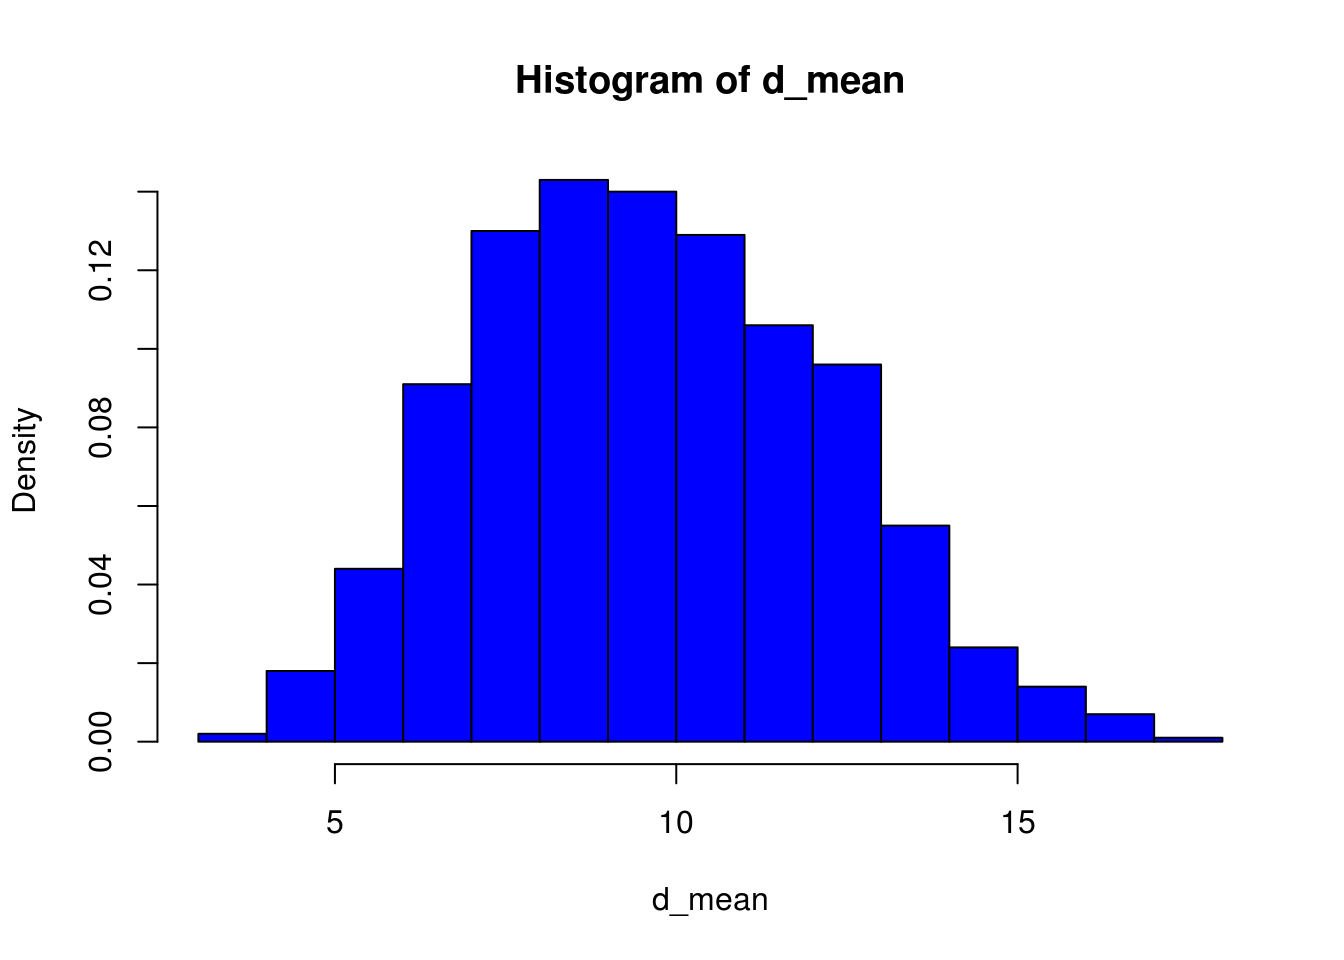
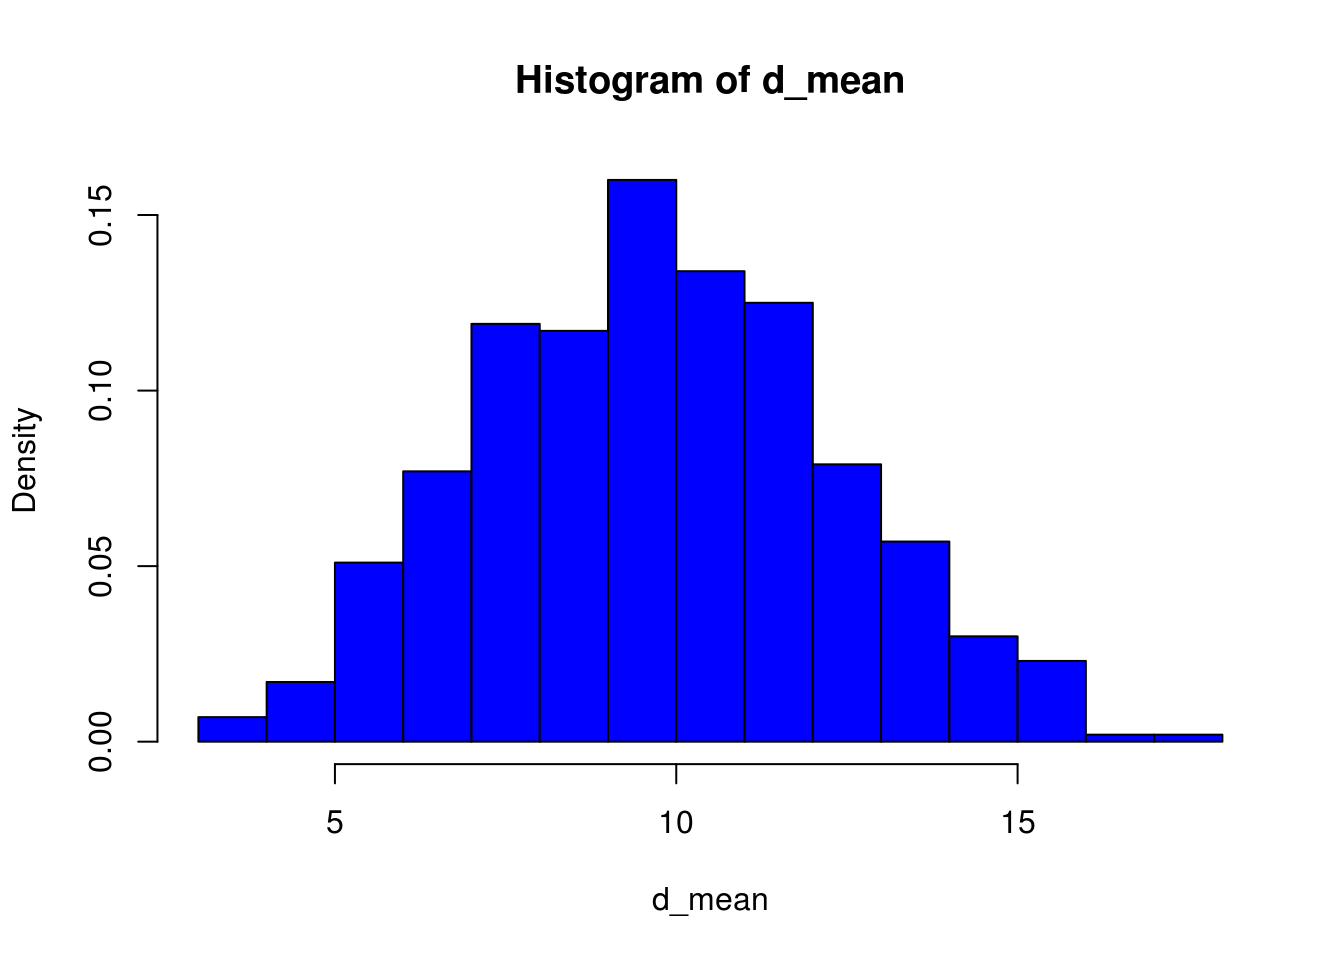
Go!

diff --git a/t4.html b/t4.html
@@ -11,7 +11,7 @@
 
 
 
-<title>Tareas</title>
+<title>Tarea # 4</title>
 
 <script src="site_libs/jquery-1.11.3/jquery.min.js"></script>
 <meta name="viewport" content="width=device-width, initial-scale=1" />
@@ -202,31 +202,47 @@ $(document).ready(function () {
 
 
 
-<h1 class="title toc-ignore">Tareas</h1>
+<h1 class="title toc-ignore">Tarea # 4</h1>
 
 </div>
 
 
-<div id="reglas-para-todas-las-tareas" class="section level3">
-<h3>Reglas para todas las tareas:</h3>
-<ol style="list-style-type: decimal">
-<li>La tarea debe ser entregada en físico al iniciar la clase y en el día señalado.</li>
-<li>Se pueden ayudar mutuamente en el uso de las computadoras, pero dos trabajos exactamente iguales recibirán nota CERO.</li>
-<li>En su reporte final debe aparecer todo el código de R y los respectivos resultados. En los cálculos manuales debe mostrar su procedimiento detalladamente.</li>
-<li>Todas las gráficas deben tener títulos que incluyan el nombre de estudiante, de lo contrario se descontarán puntos.</li>
+<div id="fecha-de-entrega-viernes-14-de-septiembre-de-2018.-al-iniciar-la-clase." class="section level4">
+<h4><strong>Fecha de entrega:</strong> Viernes 14 de septiembre de 2018. Al iniciar la clase.</h4>
+</div>
+<div id="puntaje-15-puntos" class="section level4">
+<h4><strong>Puntaje:</strong> 15 puntos</h4>
+</div>
+<div id="recomendacion-los-calculos-manuales-debe-explicarlos-detalladamente-para-no-perder-puntos." class="section level4">
+<h4><strong>Recomendación:</strong> Los cálculos manuales debe explicarlos detalladamente para no perder puntos.</h4>
+</div>
+<div id="pts-los-siguientes-datos-corresponden-a-las-cifras-mensuales-en-del-desempleo-en-puerto-rico-para-el-ano-2014" class="section level4">
+<h4>1. <strong>(5 pts)</strong> Los siguientes datos corresponden a las cifras mensuales en % del desempleo en Puerto Rico para el año 2014</h4>
+<p>15.2 13.1 14.7 14.2 13.8 13.1 13.5 14.2 14 14.2 13.7 13.1</p>
+<p>Use los datos anteriores para contestar manualmente: (Debe detallar su procedimiento.)</p>
+<ol style="list-style-type: lower-alpha">
+<li><p>¿Cuál fue la tasa de desempleo promedio en Puerto Rico para el año 2014?</p></li>
+<li><p>Encuentre la mediana del la tasa de desempleo en Puerto Rico para el año 2014. ¿Qué significado tiene la mediana en este caso?</p></li>
+<li><p>Encuentre la moda de la tasa de desempleo en Puerto Rico para el año 2014. Interprete la moda.</p></li>
 </ol>
 </div>
-<div id="tarea-1.-fecha-limite-viernes-24-08-solucion-tarea-1" class="section level3">
-<h3><a href="https://didier-murillo.netlify.com/t1">Tarea 1. Fecha límite: Viernes-24-08</a> – <a href="https://didier-murillo.netlify.com/st1">Solución Tarea 1</a></h3>
+<div id="pts-volvamos-a-los-datos-de-la-lluvia-en-mayaguez-los-cuales-son" class="section level4">
+<h4>2. <strong>(10 pts)</strong> Volvamos a los datos de la lluvia en Mayagüez, los cuales son:</h4>
+<p><span class="math inline">\(\color{green}{\text{311 293 285 306 311 309 313 309 320 311 319 307 320 273 297}}\)</span>.</p>
 </div>
-<div id="tarea-2.-fecha-limite-viernes-31-08-solucion-tarea-2" class="section level3">
-<h3><a href="https://didier-murillo.netlify.com/t2">Tarea 2. Fecha límite: Viernes-31-08</a> – <a href="https://didier-murillo.netlify.com/st2">Solución Tarea 2</a></h3>
+<div id="ahora-tambien-tenemos-informacion-sobre-los-dias-de-lluvia-durante-los-ultimos-15-anos-en-ponce." class="section level4">
+<h4>Ahora también tenemos información sobre los días de lluvia durante los últimos 15 años en Ponce.</h4>
+<p><span class="math inline">\(\color{red}{\text{126 141  96 159 171 213  73 101 112 100 151  39 140 108 103}}\)</span>.</p>
 </div>
-<div id="tarea-3.-fecha-limite-viernes-07-09" class="section level3">
-<h3><a href="https://didier-murillo.netlify.com/t3">Tarea 3. Fecha límite: Viernes-07-09</a></h3>
-</div>
-<div id="tarea-4.-fecha-limite-viernes-14-09" class="section level3">
-<h3><a href="https://didier-murillo.netlify.com/t4">Tarea 4. Fecha límite: Viernes-14-09</a></h3>
+<div id="use-los-datos-de-la-lluvia-de-mayaguez-y-ponce-para-responder-las-siguientes-preguntas" class="section level4">
+<h4>Use los datos de la lluvia de Mayagüez y Ponce para responder las siguientes preguntas:</h4>
+<ol style="list-style-type: lower-alpha">
+<li><p>En promedio, ¿cuál es la ciudad más lluviosa?. Justifique.</p></li>
+<li><p>Use los valores de la media, la mediana y un gráfico adecuado para decir si las distribuciones de la lluvia son simétricas o sesgadas a derecha o izquierda.</p></li>
+<li><p>Use la idea del coeficiente de variación para decidir cuál de las dos ciudades presenta mayor variabilidad en la lluvia. Debería usar R para encontrar la desviación estándar de los datos.</p></li>
+<li><p>Encontrar manualmente los cuartiles <span class="math inline">\(Q_1, Q_2\)</span> y <span class="math inline">\(Q_3\)</span> en el conjunto de datos para la lluvia de Ponce. También encuentre e interprete el percentil 64. Luego use R para verificar sus resultados.</p></li>
+<li><p>Use R y/o RStudio para hacer una gráfica de caja y bigotes (Boxplot) con los datos de la lluvia en las dos ciudades. Interpretar el gráfico.</p></li>
+</ol>
 <div class="figure">
 <img src="blanco.png" />
 

diff --git a/d_muestral.html b/d_muestral.html
@@ -260,16 +260,16 @@ for (i in 1:30){
 }
 #d_mean
 mean(d_mean)</code></pre>
-<pre><code>## [1] 9.4</code></pre>
+<pre><code>## [1] 10.375</code></pre>
 <pre class="r"><code>sd(d_mean)</code></pre>
-<pre><code>## [1] 2.557612</code></pre>
+<pre><code>## [1] 2.661791</code></pre>
 <ol start="3" style="list-style-type: decimal">
 <li>Tercero, calculamos las medias de todas esas muestras y tratamos de ver gráficamente mediante un histograma al menos si hay acercamiento a Normalidad.</li>
 </ol>
 <pre class="r"><code>mean(d_mean)</code></pre>
-<pre><code>## [1] 9.4</code></pre>
+<pre><code>## [1] 10.375</code></pre>
 <pre class="r"><code>sd(d_mean)</code></pre>
-<pre><code>## [1] 2.557612</code></pre>
+<pre><code>## [1] 2.661791</code></pre>
 <p>Interpretación: Notar que la media de las medias muestrales es <span class="math inline">\(\mu_{\bar{X}}=10.075\)</span> que está bien cerca de la media poblacional . Además la desviación estándar de la media muestral es 2.806 mientras que <span class="math inline">\(\sigma/\sqrt{n}=5.418/2=2.709\)</span>. Ambos valores también están relativamente cerca. El histograma si está un poco alejado de la normalidad. Si se incrementa el tamaño de las muestras se puede notar una mejor aproximación a la Normal.</p>
 <pre class="r"><code>hist(d_mean,col = &quot;blue&quot;,freq = F)</code></pre>
 <p><img src="d_muestral_files/figure-html/unnamed-chunk-4-1.png" width="672" /></p>

diff --git a/correlacion.html b/correlacion.html
@@ -262,7 +262,7 @@ plot(x,y,pch=18)</code></pre>
 <p><img src="correlacion_files/figure-html/unnamed-chunk-4-1.png" width="672" /></p>
 <p>¿Cuánto es la correlación entre <code>x</code> e <code>y</code>?</p>
 <pre class="r"><code>cor(x,y)</code></pre>
-<pre><code>## [1] -0.02019748</code></pre>
+<pre><code>## [1] -0.04880514</code></pre>
 <p>El coeficiente de correlación es similar a la media, mediana, desviación estándar, Q1, etc .: viene en dos versiones:</p>
 <ul>
 <li><p>Es una estadístico cuando se encuentra a partir de una muestra</p></li>

diff --git a/dNormal.html b/dNormal.html
@@ -343,8 +343,8 @@ Notas &lt;- rnorm(30,75,10)
 # Redondeando los resultados
 Notas &lt;- round(Notas,digits = 0)
 print(Notas)</code></pre>
-<pre><code>##  [1] 101  79  71  85  75  83  87  82  81  77  61  60  74  62  42  87  77
-## [18]  75  71  88  78  87  61  67  79  50  88  57  73  75</code></pre>
+<pre><code>##  [1] 77 84 68 56 74 68 70 69 74 64 74 78 93 83 68 72 61 68 92 71 76 82 70
+## [24] 70 58 86 78 84 55 64</code></pre>
 <p><strong>¿Cuál es la probabilidad que un estudiante tenga más 73 en la nota?</strong></p>
 <hr />
 <hr />
